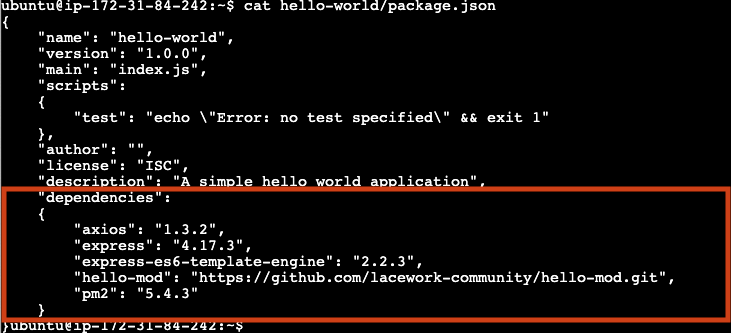
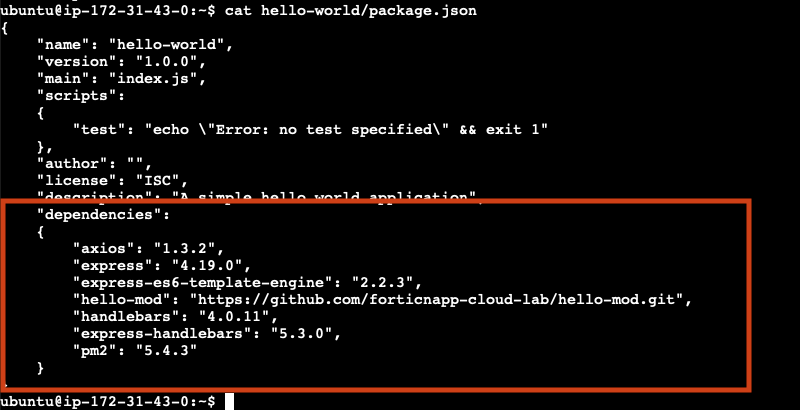
fix: update git repo; add support for editing image in hello-world site; update git repo where hello-world is hosted

Changed region(s): [[0.0, 0.3003, 1.0, 1.0], [0.0301, 0.0901, 0.301, 0.3303], [0.0, 0.0, 0.6922, 0.0901]]

diff --git a/content/01Cloud101/aws-basics.md b/content/01Cloud101/aws-basics.md
@@ -1,91 +1,78 @@
----
-title: "AWS Fundamentals"
-linkTitle: "AWS Fundamentals"
-weight: 2
----
-
-### Lab Overview
-
-The goal of this lab is to, as quickly as possible, get a simple web site running and exposed to the internet.  This website will require some compute resources to run on, expsore to the Internet (inboud/outboud) and permissions to access a centrally managed database.
+## Lab Overview
+The goal of this lab is to, as quickly as possible, get a simple web site running and exposed to the internet.  This website will require some compute resources to run on, exposure to the Internet (inboud/outboud) and permissions to access a centrally managed database.
 
 Application Diagram
 
-![](img/app-diagram.png)
+![](https://fortinetcloudcse.github.io/FortiDevOps/01cloud101/img/app-diagram.png)
 
 To achieve your goal you will use the public cloud to create resources, download code, grant permissions and finally expose your website to the entire world.  All this will be achieved using the Amazon Web Services (AWS) web console,a web browser and a few simple commands.
 
 Good luck!
-
-### Log into AWS Console
-
+## Log into AWS Console
 Before we can do anything you will need to get access AWS web console in your browser. The log in details for your lab provided AWS account are on the left hand of the lab.  Each field has a copy link you can use.
 
 Click on the `Open Console` link.
 
-![](img/qwiklabs-lab-details.png)
+![](https://fortinetcloudcse.github.io/FortiDevOps/01cloud101/img/qwiklabs-lab-details.png)
 
 Copy/paste the `Username`, `Password` and click `Sign In`.
 
-![](img/aws-login.png)
-
-### Create an Virtual Server
-
+![](https://fortinetcloudcse.github.io/FortiDevOps/01cloud101/img/aws-login.png)
+## Create an Virtual Server
 Now that you have access to the AWS Console let's get working!
 
 To get your website working you will need a server where you can run the code.  In a traditional on premise data center you would request a server from your operations team.  In the public cloud you can create your own resources, include servers, without having to ask anyone.
 
 In AWS servers can be created using their `EC2` service. Use the search box and type `EC2` and click on the top returned result. 
 
-![](img/aws-console-us-east-1.png)
+![](https://fortinetcloudcse.github.io/FortiDevOps/01cloud101/img/aws-console-us-east-1.png)
 
-In EC2 you can create virtual servers in many different regions around the world. By default, you will be dropped into `us-east-1` region which is located in the United States, North Virginia.  Find `Instances` in the left hand navigation (Below the Heading of "Instance") and click on it to view your currently running virtual server.
+The EC2 service enables creating virtual servers in many different regions around the world. By default, you will be dropped into `us-east-1` region which is located in the United States, North Virginia.
+
+Find `Instances` in the left hand navigation (Below the Heading of "Instance") and click on it to view your currently running virtual servers. At the moment you should have none running.
 
 Click on `Launch Instance`
 
-![](img/ec2-1.png)
+![](https://fortinetcloudcse.github.io/FortiDevOps/01cloud101/img/ec2-1.png)
 
 Give you new virtual server a name you will remember, keep it safe for work!
 Next choose Ubuntu as the operating system you want running in your new virtual server.
 
-![](img/ec2-2.png)
+![](https://fortinetcloudcse.github.io/FortiDevOps/01cloud101/img/ec2-2.png)
 
 Now we need configure what credentials we will use to access this virtual server once it is up and running.
 Select `FortiCNAPPKey` from the drop-down.  This key was created by Qwkilabs and can be used within AWS or from you local machine to access your virtual server.
 
-![](img/ec2-3.png)
+![](https://fortinetcloudcse.github.io/FortiDevOps/01cloud101/img/ec2-3.png)
 
 Finally click on `Launch Instance` to create you brand new virtual server.
 
-![](img/launch.png)
+![](https://fortinetcloudcse.github.io/FortiDevOps/01cloud101/img/launch.png)
 
 Phew! You now have a brand new virtual server up and running in EC2.  Click on the ID for you new virtual server to view more details.
 
-![](img/aws-ec2-new-server.png)
-
-### Access your Virtual Server
-
+![](https://fortinetcloudcse.github.io/FortiDevOps/01cloud101/img/aws-ec2-new-server.png)
+## Access your Virtual Server
 Next you need to gain access to your new virtual server so you can make it actually do something useful.  Developers often connect to servers using a secure shell (SSH).  AWS offers a simple way to do this called `Instance Connect`.  Instance Connect will allow you to gain a connection to your new virtual server using your browser.  After gaining access you will be able to run commands on the server.
 
 Right-click on the instance name of your new instance and choose `Connect`.
 
-![](img/aws-4.png)
+![](https://fortinetcloudcse.github.io/FortiDevOps/01cloud101/img/aws-4.png)
 
 On the Connect to instance window, keep the default option of `EC2 Instance Connect` and click on `Connect`
 
-![](img/aws-5.png)
+![](https://fortinetcloudcse.github.io/FortiDevOps/01cloud101/img/aws-5.png)
 
 If succesful, you should see a terminal like interface within your AWS Console. Now you are ready to run some commands.
 
-![](img/aws-6.png)
-
-### Download the website code
-
+![](https://fortinetcloudcse.github.io/FortiDevOps/01cloud101/img/aws-6.png)
+## Download the website code
 The code for your new website is stored in git repository hosted on GitHub. Git/GitHub allow developers to collaborate together and share code.  Almost no modern company develops all of their own code. Developers rely on using many other projects to save time and effort while delivering business value.
 
 The command below will download the code to your virtual server
 
 ```bash
-git clone https://github.com/lacework-community/hello-world.git
+git clone https://github.com/forticnapp-cloud-lab/hello-world.git
 ```
 
 You can confirm that code is on your server by listing all the file us the `ls` command.
@@ -93,10 +80,8 @@ You can confirm that code is on your server by listing all the file us the `ls` 
 ```bash
 ls hello-world
 ```
-
-### Make the site your own
-
-Before you start up your new website let's make a simple change. The default message is `Hello World!`.  The is kind of boring.  Let's update that message to something a bit more fun.
+## Make the site your own
+Before you start up your new website let's make a few simple changes. The default message is `Hello World!`.  The is kind of boring.  Let's update that message to something a bit more fun.
 
 You will be using a program called `nano` to make this change. Below is the command to start `nano` opening the index.js file that runs your website.
 
@@ -104,12 +89,14 @@ You will be using a program called `nano` to make this change. Below is the comm
 nano ~/hello-world/index.js
 ```
 
-![](img/aws-ec2-nano-hello-world.png)
+![](https://fortinetcloudcse.github.io/FortiDevOps/01cloud101/img/aws-ec2-nano-hello-world.png)
 
-Nano tries to be as user friendly as it can be.  You can use your arrow keys to move around, use delete to remove the `Hello World!` text.  You can type your new message as normal. Once you are done making changes use the control key and `o` key, followed by enter to confirm the change.  Finally control 'x' to exit `nano`.
+Nano tries to be as user friendly as it can be.  You can use your arrow keys to move around, use delete to remove text and type to add text. 
 
-### Install node runtime
+Let's make a change to the website to make it your own. Find `Hello World!` and replace the text with your own message. You can customize your website even more by replacing `IMAGE_URL` with a URL for an work safe image you can find on the world wide web. 
 
+Once you are done making changes use the control key and `o` key, followed by enter to confirm the change.  Finally control 'x' to exit `nano`.
+## Install node runtime
 Before we can even start up your website you will need to get the Node runtime setup.  Node is a more modern version of the browse language JavaScript.  Many modern websites and services use Node.
 
 The command below will use the Ubuntu built in package management application (apt) to download NodeJs (the Node runtime) and npm (Node's own package manager).
@@ -119,10 +106,8 @@ sudo apt update && sudo apt install -y nodejs npm
 ```
 
 Notice how many files are installed running just these few commands. Hopefully there aren't any negative side effecs of making all these changes.
-
-### Install your website dependencies 
-
-As we mentioned all modern software is built on top of other software.  Your simple website is no exception.  In Node these dependencies are list in a file call `package.json`.  
+## Install your website dependencies 
+As we mentioned all modern software is built on top of other software.  Your simple website is no exception.  In Node these software dependencies are listed in a file called `package.json`.  
 
 To see your dependencies run this command. The `cat` command will output the content of a file.
 
@@ -130,56 +115,50 @@ To see your dependencies run this command. The `cat` command will output the con
 cat hello-world/package.json
 ```
 
-![](img/aws-ec2-cat-package.png)
+![](https://fortinetcloudcse.github.io/FortiDevOps/01cloud101/img/aws-ec2-cat-package.png)
 
-Before you can start your website you will need to install these dependencies.  Luckily you already installed Node package manager `npm`. Run the command below to chagne directory and install the needed Node packages.
+Before you can start your website you will need to install these dependencies.  Luckily you already installed the Node package manager `npm`. Run the command below to chagne directory and install the needed Node packages.
 
 ```bash
 cd ~/hello-world
 npm install
 ```
 
-![](img/aws-ec2-npm-install.png)
+![](https://fortinetcloudcse.github.io/FortiDevOps/01cloud101/img/aws-ec2-npm-install.png)
 
-Notice that we only had 3 direct dependencies in our `package.json` file, but we actually added 72 packages. This is because our direct dependencies have their own dependencies, which in turn might yet more dependencies.  Software is built ontop of software. Turtles all the way down.
+Notice that we only had 4 direct dependencies in our `package.json` file, but we actually added 229 packages. This is because our direct dependencies have their own dependencies, which in turn might yet more dependencies.  Software is built ontop of software. Turtles all the way down.
 
-Even more concerning is the warning that there are 8 vulnerabilities found, including 4 of high severity.
+Even more concerning is the warning that there are 8 vulnerabilities found, including 5 of high severity.
 
 Well no time to worry about all of that, you have a website to get up and running!
-
-### Start up your website
-
-To keep your website up and running you will use the `pm2` binary installed in the step above using npm.  The job of `pm2` is to ensure that node binaries are running even if the virtual server gets restarted or your website crashes.
+## Start up your website
+To keep your website up and running you will use the `pm2` binary installed in the step above using npm.  The job of `pm2` is to ensure that your website stays up andrunning even if the virtual server gets restarted or your website crashes.
 
 ```bash
 ./node_modules/pm2/bin/pm2 start index.js
 ```
 
-![](img/ec2-node-started.png)
-
-### Access your brand-new website
-
+![](https://fortinetcloudcse.github.io/FortiDevOps/01cloud101/img/ec2-node-started.png)
+## Access your brand-new website
 Go back to the AWS EC2 Service, click on your instance. You will find the public IP address of that instance and copy it.
 
-![](img/ec2-get-public-ip.png)
+![](https://fortinetcloudcse.github.io/FortiDevOps/01cloud101/img/ec2-get-public-ip.png)
 
 Note: use the copy link and not the 'open address' link
 
 You will need to add the port the website is running on `3000`.
 
 `http://<Your-IP>:3000`
-
-### Hello is anyone listening?
-
+## Hello is anyone listening?
 You might have noticed that when you visited the URL of your newly launched website nothing happened, your browser tab just spun and spun. AWS EC2 be default only allows inbound network connections on port 22, the default port of SSH.  Since your website is not running on port 22 all other inbound traffic was blocked. Next task is to open up some ports to allow inbound traffic to reach your virtual server.
 
-AWS EC2 manages network access via `Security Groups`. Return to AWS EC2, find you EC2 instance, switch to the `security group` tab and click on your security group name.
+AWS EC2 manages network access via `Security Groups`. Return to AWS EC2, find you EC2 instance, switch to the `Security` tab and click on your security group name.
 
-![](img/aws-ec2-open-security-group.png)
+![](https://fortinetcloudcse.github.io/FortiDevOps/01cloud101/img/aws-ec2-open-security-group.png)
 
-Ensure you are on the Incound Rules tab and click on `Edit inbound rules`.
+Ensure you are on the `Inbound Rules` tab and click on `Edit inbound rules`.
 
-![](img/aws-ec2-lauch-inbound-rules.png)
+![](https://fortinetcloudcse.github.io/FortiDevOps/01cloud101/img/aws-ec2-lauch-inbound-rules.png)
 
 You will need click `Add rule` to create a new inbound rule. Then specify the `Protocol` as `TCP`, `Port range` of `1000-6000` and ensure anyone on the internet can access by specifying a `Source` of `0.0.0.0/0`. 
 
@@ -187,74 +166,66 @@ Notice that we opened up way more ports than we need and AWS warns us about allo
 
 Anyway... click `Save rules`, let's get this web site up!
 
-![](img/aws-ec2-edit-inbound-rules.png)
+![](https://fortinetcloudcse.github.io/FortiDevOps/01cloud101/img/aws-ec2-edit-inbound-rules.png)
 
 Refresh the URl of your website to see if we can get traffic flowing.
-
-### Wait that doesn't look right
-
+## Wait that doesn't look right
 Your new website isn't showing your fancy message. Rather it is complaining about an IAM role not being attached.  
 
-![](img/website-no-iam-role.png)
+![](https://fortinetcloudcse.github.io/FortiDevOps/01cloud101/img/website-no-iam-role.png)
 
-As you might recall from the very beginning we mentioned that the website would need access to a centrally managed database. Access to cloud resources, like databases, is allowed through Identity and Access Management (IAM) IAM has conecpts like roles, policies and permissions that control what can and can't be accesssed by users and cloud resources.
+As you might recall from the very beginning we mentioned that your website would need access to a centrally managed database. Access to cloud resources, like databases, is allowed through Identity and Access Management (IAM). IAM has conecpts like roles, policies and permissions that control what can and can't be accesssed by users and cloud resources.
 
 By default when you create a new EC2 instance there is no IAM role attached.  This means that your virtual machine can not access any other cloud resources at the moment.
 
-![](img/aws-ec2-no-role-defined.png)
-
-### Attach a new IAM role
-
+![](https://fortinetcloudcse.github.io/FortiDevOps/01cloud101/img/aws-ec2-no-role-defined.png)
+## Attach a new IAM role
 To attach a new IAM role to your virtual server click on `Action`, then `Security` and finally `Modify IAM role`.
 
-![](img/aws-ec2-modify-role.png)
+![](https://fortinetcloudcse.github.io/FortiDevOps/01cloud101/img/aws-ec2-modify-role.png)
 
 Before you can attach a role you will have to create a new on.  Click on `Create new IAM role` to open a new window in the IAM service page.
 
-![](img/aws-attach-role-before-new-role.png)
+![](https://fortinetcloudcse.github.io/FortiDevOps/01cloud101/img/aws-attach-role-before-new-role.png)
 
 On the IAM Role page you will find a list of all the current roles.  You want a new role that can be attached to your virtual machine so click on `Create role`.
 
-![](img/aws-iam-role-page.png)
+![](https://fortinetcloudcse.github.io/FortiDevOps/01cloud101/img/aws-iam-role-page.png)
 
 There are a few type of roles you can create select `AWS service` and then in the `Service or use case` drop down select `EC2`.  This will allow your to attach this new role to an EC2 virtual server.
 
-![](img/aws-iam-create-ec2-role.png)
+![](https://fortinetcloudcse.github.io/FortiDevOps/01cloud101/img/aws-iam-create-ec2-role.png)
 
 Now comes the time to choose which permissions to grant.  Notice that there are over a thousand possible permissions policies you could grant.  Rather than go over all of these trying to find the right one, we will take the simple path and grant `AdministratorAccess`. Choosing the admin role grants more permissions than you need, but ensures that the database access will work. Once again these are just the types of decisions that anyone with a cloud account face everyday.
 
-![](img/aws-iam-grant-admin.png)
+![](https://fortinetcloudcse.github.io/FortiDevOps/01cloud101/img/aws-iam-grant-admin.png)
 
 Finally the hardest choice you have made all day. What do you name this new role? Pick something easy to remember and click `Create role`.
 
-![](img/aws-iam-create-role.png)
+![](https://fortinetcloudcse.github.io/FortiDevOps/01cloud101/img/aws-iam-create-role.png)
 
 Return to the previous page where you where trying to attache a role.  Click the circle icon, select your new role from the drop down and click `Update IAM role`.
 
-![](img/ec2-attach-new-role.png)
+![](https://fortinetcloudcse.github.io/FortiDevOps/01cloud101/img/ec2-attach-new-role.png)
 
 Finally check your website again. Fingers crossed it all worked.
-
-
-### Take moment and recap
-
-Here are the high level step you took
-* create a new virtual machine
-* cloned website code from github
-* updated the website code
-* installed the Node runtime
-* installed node packages via npm
-* started the website
-* configured the network access
-* create a new role and attached it to your virtual machine
-* access your wonderful new website
-
+## Take moment and recap
+Here are the high level steps you took:
+<ul>
+<li> created a new virtual machine
+<li> cloned website code from github
+<li> updated the website code
+<li> installed the Node runtime
+<li> installed node packages via npm
+<li> started the website
+<li> configured the network access
+<li> create a new role and attached it to your virtual machine
+<li> access your wonderful new website
+</ul>
 All of this happened without involving IT, development, security, management, operations. 
 
 What could go wrong?
-
-### Take a break already
-
+## Take a break already
 Once you complete this section of the lab, please take a break and talk amongst your peers about what you learned, we’ll come together once everyone has finished
 
-![](img/break-time-7298ce200c.jpg)
+![](https://fortinetcloudcse.github.io/FortiDevOps/01cloud101/img/break-time-7298ce200c.jpg)
